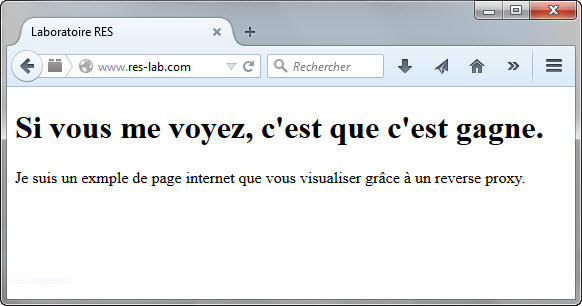
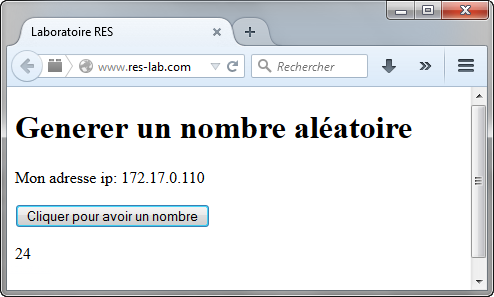
Mise à jour du document

Changed region(s): [[0.0, 0.0303, 1.0, 1.0], [0.7591, 0.0, 1.0, 0.0909], [0.0, 0.0, 0.0304, 0.0303]]

diff --git a/Document.md b/Document.md
@@ -15,17 +15,21 @@ Pour pouvoir lancé tout les containers, il y a des script bash qui lance toute 
 
 Le premier à lancer est **build\_containers** qui va construire les différents containers et ensuite c'est **run\_containers** pour les lancés (Note: ils sont lancé en arrière plan). Il **stop_containers** qui permet d'arrêter tout les containers lancé avec le script précédent.
 
-Actuellement, il n'y a que le reverse proxy qui marche, les scripts vont donc lancé trois containers : le serveur en reverse-proxy et 2 qui générent une page en html.
+Actuellement, il n'y a pas de découverte dynamique, tout les containers lancés sont enregistré dans le **http-vhosts.conf** lors du **run\_containers** qui va enfait, crée le fichier necessaire build le container pour le proxy / balancer et le démarrer tout de suite après.
+Le script lance 1 container pour le proxy / balancer, 2 pour le frontend et 2 pour le backend.
 
 ## Test du bon fonctionnement
 
-Pour pouvoir observer si tout marche comme il faut, ouvrez une page internet avec votre navigateur à l'adresse **www.res-lab.com** et vous devriez observer ceci:
+Pour pouvoir observer si tout marche comme il faut, ouvrez une page internet avec votre 
+navigateur à l'adresse **www.res-lab.com** et vous devriez observer ceci:
+
+[![](images_document/front_start.png)](images_document/front_start.png)
+
+Si vous appuyer sur le bouton, un nombre aléatoire devrais apparaitre à chaque nouvelle appuye.
 
 [![](images_document/front.png)](images_document/front.png)
 
-Et si vous rajouter **/api/** vous devriez voir ceci:
 
-[![](images_document/back.png)](images_document/back.png)
 
 Auteurs: 
 
